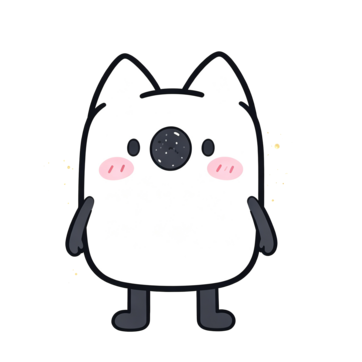
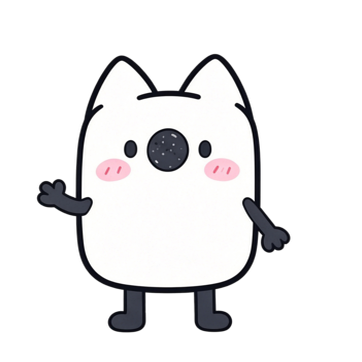
更新整理书架16帧动画

Changed region(s): [[0.0912, 0.1215, 0.8204, 0.942], [0.7597, 0.395, 0.7901, 0.4254]]

diff --git a/demo/pet_demo.html b/demo/pet_demo.html
@@ -405,7 +405,7 @@
         </button>
         <button class="action" id="btn-newbook">
           <span class="label">整理书架/新建书籍</span>
-          <span class="meta">newbook/ · 14帧</span>
+          <span class="meta">newbook/ · 16帧</span>
           <span class="badge ready">已就绪</span>
         </button>
       </div>
@@ -434,7 +434,7 @@
         <tr><td class="key">mastered</td><td>复习考核判定已掌握时</td><td class="frames">16</td><td><span class="badge ready">已就绪</span></td></tr>
         <tr><td class="key">forgotten</td><td>复习考核判定遗忘/模糊时</td><td class="frames">16</td><td><span class="badge ready">已就绪</span></td></tr>
         <tr><td class="key">newnote</td><td>新建笔记时</td><td class="frames">16</td><td><span class="badge ready">已就绪</span></td></tr>
-        <tr><td class="key">newbook</td><td>整理书架 / 新建书籍时</td><td class="frames">14</td><td><span class="badge ready">已就绪</span></td></tr>
+        <tr><td class="key">newbook</td><td>整理书架 / 新建书籍时</td><td class="frames">16</td><td><span class="badge ready">已就绪</span></td></tr>
       </tbody>
     </table>
     </div>
@@ -444,7 +444,7 @@
 </div>
 
 <script>
-  const FRAMES = {"normal": ["../assets/normal/normal_1.png", "../assets/normal/normal_2.png", "../assets/normal/normal_3.png", "../assets/normal/normal_4.png", "../assets/normal/normal_5.png", "../assets/normal/normal_6.png", "../assets/normal/normal_7.png", "../assets/normal/normal_8.png", "../assets/normal/normal_9.png"], "levelup": ["../assets/levelup/levelup_1.png", "../assets/levelup/levelup_2.png", "../assets/levelup/levelup_3.png", "../assets/levelup/levelup_4.png", "../assets/levelup/levelup_5.png", "../assets/levelup/levelup_6.png", "../assets/levelup/levelup_7.png", "../assets/levelup/levelup_8.png", "../assets/levelup/levelup_9.png", "../assets/levelup/levelup_10.png", "../assets/levelup/levelup_11.png", "../assets/levelup/levelup_12.png", "../assets/levelup/levelup_13.png", "../assets/levelup/levelup_14.png", "../assets/levelup/levelup_15.png", "../assets/levelup/levelup_16.png"], "wave": ["../assets/wave/wave_1.png", "../assets/wave/wave_2.png", "../assets/wave/wave_3.png", "../assets/wave/wave_4.png", "../assets/wave/wave_5.png", "../assets/wave/wave_6.png", "../assets/wave/wave_7.png", "../assets/wave/wave_8.png", "../assets/wave/wave_9.png", "../assets/wave/wave_10.png", "../assets/wave/wave_11.png", "../assets/wave/wave_12.png"], "idea": ["../assets/idea/idea_1.png", "../assets/idea/idea_2.png", "../assets/idea/idea_3.png", "../assets/idea/idea_4.png", "../assets/idea/idea_5.png", "../assets/idea/idea_6.png", "../assets/idea/idea_7.png", "../assets/idea/idea_8.png", "../assets/idea/idea_9.png", "../assets/idea/idea_10.png", "../assets/idea/idea_11.png", "../assets/idea/idea_12.png"], "followup": ["../assets/followup/followup_1.png", "../assets/followup/followup_2.png", "../assets/followup/followup_3.png", "../assets/followup/followup_4.png", "../assets/followup/followup_5.png", "../assets/followup/followup_6.png", "../assets/followup/followup_7.png", "../assets/followup/followup_8.png", "../assets/followup/followup_9.png", "../assets/followup/followup_10.png", "../assets/followup/followup_11.png", "../assets/followup/followup_12.png", "../assets/followup/followup_13.png", "../assets/followup/followup_14.png", "../assets/followup/followup_15.png", "../assets/followup/followup_16.png"], "crosslink": ["../assets/crosslink/crosslink_1.png", "../assets/crosslink/crosslink_2.png", "../assets/crosslink/crosslink_3.png", "../assets/crosslink/crosslink_4.png", "../assets/crosslink/crosslink_5.png", "../assets/crosslink/crosslink_6.png", "../assets/crosslink/crosslink_7.png", "../assets/crosslink/crosslink_8.png", "../assets/crosslink/crosslink_9.png", "../assets/crosslink/crosslink_10.png", "../assets/crosslink/crosslink_11.png", "../assets/crosslink/crosslink_12.png", "../assets/crosslink/crosslink_13.png", "../assets/crosslink/crosslink_14.png", "../assets/crosslink/crosslink_15.png", "../assets/crosslink/crosslink_16.png"], "savecard": ["../assets/savecard/savecard_1.png", "../assets/savecard/savecard_2.png", "../assets/savecard/savecard_3.png", "../assets/savecard/savecard_4.png", "../assets/savecard/savecard_5.png", "../assets/savecard/savecard_6.png", "../assets/savecard/savecard_7.png", "../assets/savecard/savecard_8.png", "../assets/savecard/savecard_9.png", "../assets/savecard/savecard_10.png", "../assets/savecard/savecard_11.png", "../assets/savecard/savecard_12.png", "../assets/savecard/savecard_13.png", "../assets/savecard/savecard_14.png", "../assets/savecard/savecard_15.png", "../assets/savecard/savecard_16.png", "../assets/savecard/savecard_17.png", "../assets/savecard/savecard_18.png"], "mastered": ["../assets/mastered/mastered_1.png", "../assets/mastered/mastered_2.png", "../assets/mastered/mastered_3.png", "../assets/mastered/mastered_4.png", "../assets/mastered/mastered_5.png", "../assets/mastered/mastered_6.png", "../assets/mastered/mastered_7.png", "../assets/mastered/mastered_8.png", "../assets/mastered/mastered_9.png", "../assets/mastered/mastered_10.png", "../assets/mastered/mastered_11.png", "../assets/mastered/mastered_12.png", "../assets/mastered/mastered_13.png", "../assets/mastered/mastered_14.png", "../assets/mastered/mastered_15.png", "../assets/mastered/mastered_16.png"], "forgotten": ["../assets/forgotten/forgotten_1.png", "../assets/forgotten/forgotten_2.png", "../assets/forgotten/forgotten_3.png", "../assets/forgotten/forgotten_4.png", "../assets/forgotten/forgotten_5.png", "../assets/forgotten/forgotten_6.png", "../assets/forgotten/forgotten_7.png", "../assets/forgotten/forgotten_8.png", "../assets/forgotten/forgotten_9.png", "../assets/forgotten/forgotten_10.png", "../assets/forgotten/forgotten_11.png", "../assets/forgotten/forgotten_12.png", "../assets/forgotten/forgotten_13.png", "../assets/forgotten/forgotten_14.png", "../assets/forgotten/forgotten_15.png", "../assets/forgotten/forgotten_16.png"], "newnote": ["../assets/newnote/newnote_1.png", "../assets/newnote/newnote_2.png", "../assets/newnote/newnote_3.png", "../assets/newnote/newnote_4.png", "../assets/newnote/newnote_5.png", "../assets/newnote/newnote_6.png", "../assets/newnote/newnote_7.png", "../assets/newnote/newnote_8.png", "../assets/newnote/newnote_9.png", "../assets/newnote/newnote_10.png", "../assets/newnote/newnote_11.png", "../assets/newnote/newnote_12.png", "../assets/newnote/newnote_13.png", "../assets/newnote/newnote_14.png", "../assets/newnote/newnote_15.png", "../assets/newnote/newnote_16.png"], "newbook": ["../assets/newbook/newbook_1.png", "../assets/newbook/newbook_2.png", "../assets/newbook/newbook_3.png", "../assets/newbook/newbook_4.png", "../assets/newbook/newbook_5.png", "../assets/newbook/newbook_6.png", "../assets/newbook/newbook_7.png", "../assets/newbook/newbook_8.png", "../assets/newbook/newbook_9.png", "../assets/newbook/newbook_10.png", "../assets/newbook/newbook_11.png", "../assets/newbook/newbook_12.png", "../assets/newbook/newbook_13.png", "../assets/newbook/newbook_14.png"]};
+  const FRAMES = {"normal": ["../assets/normal/normal_1.png", "../assets/normal/normal_2.png", "../assets/normal/normal_3.png", "../assets/normal/normal_4.png", "../assets/normal/normal_5.png", "../assets/normal/normal_6.png", "../assets/normal/normal_7.png", "../assets/normal/normal_8.png", "../assets/normal/normal_9.png"], "levelup": ["../assets/levelup/levelup_1.png", "../assets/levelup/levelup_2.png", "../assets/levelup/levelup_3.png", "../assets/levelup/levelup_4.png", "../assets/levelup/levelup_5.png", "../assets/levelup/levelup_6.png", "../assets/levelup/levelup_7.png", "../assets/levelup/levelup_8.png", "../assets/levelup/levelup_9.png", "../assets/levelup/levelup_10.png", "../assets/levelup/levelup_11.png", "../assets/levelup/levelup_12.png", "../assets/levelup/levelup_13.png", "../assets/levelup/levelup_14.png", "../assets/levelup/levelup_15.png", "../assets/levelup/levelup_16.png"], "wave": ["../assets/wave/wave_1.png", "../assets/wave/wave_2.png", "../assets/wave/wave_3.png", "../assets/wave/wave_4.png", "../assets/wave/wave_5.png", "../assets/wave/wave_6.png", "../assets/wave/wave_7.png", "../assets/wave/wave_8.png", "../assets/wave/wave_9.png", "../assets/wave/wave_10.png", "../assets/wave/wave_11.png", "../assets/wave/wave_12.png"], "idea": ["../assets/idea/idea_1.png", "../assets/idea/idea_2.png", "../assets/idea/idea_3.png", "../assets/idea/idea_4.png", "../assets/idea/idea_5.png", "../assets/idea/idea_6.png", "../assets/idea/idea_7.png", "../assets/idea/idea_8.png", "../assets/idea/idea_9.png", "../assets/idea/idea_10.png", "../assets/idea/idea_11.png", "../assets/idea/idea_12.png"], "followup": ["../assets/followup/followup_1.png", "../assets/followup/followup_2.png", "../assets/followup/followup_3.png", "../assets/followup/followup_4.png", "../assets/followup/followup_5.png", "../assets/followup/followup_6.png", "../assets/followup/followup_7.png", "../assets/followup/followup_8.png", "../assets/followup/followup_9.png", "../assets/followup/followup_10.png", "../assets/followup/followup_11.png", "../assets/followup/followup_12.png", "../assets/followup/followup_13.png", "../assets/followup/followup_14.png", "../assets/followup/followup_15.png", "../assets/followup/followup_16.png"], "crosslink": ["../assets/crosslink/crosslink_1.png", "../assets/crosslink/crosslink_2.png", "../assets/crosslink/crosslink_3.png", "../assets/crosslink/crosslink_4.png", "../assets/crosslink/crosslink_5.png", "../assets/crosslink/crosslink_6.png", "../assets/crosslink/crosslink_7.png", "../assets/crosslink/crosslink_8.png", "../assets/crosslink/crosslink_9.png", "../assets/crosslink/crosslink_10.png", "../assets/crosslink/crosslink_11.png", "../assets/crosslink/crosslink_12.png", "../assets/crosslink/crosslink_13.png", "../assets/crosslink/crosslink_14.png", "../assets/crosslink/crosslink_15.png", "../assets/crosslink/crosslink_16.png"], "savecard": ["../assets/savecard/savecard_1.png", "../assets/savecard/savecard_2.png", "../assets/savecard/savecard_3.png", "../assets/savecard/savecard_4.png", "../assets/savecard/savecard_5.png", "../assets/savecard/savecard_6.png", "../assets/savecard/savecard_7.png", "../assets/savecard/savecard_8.png", "../assets/savecard/savecard_9.png", "../assets/savecard/savecard_10.png", "../assets/savecard/savecard_11.png", "../assets/savecard/savecard_12.png", "../assets/savecard/savecard_13.png", "../assets/savecard/savecard_14.png", "../assets/savecard/savecard_15.png", "../assets/savecard/savecard_16.png", "../assets/savecard/savecard_17.png", "../assets/savecard/savecard_18.png"], "mastered": ["../assets/mastered/mastered_1.png", "../assets/mastered/mastered_2.png", "../assets/mastered/mastered_3.png", "../assets/mastered/mastered_4.png", "../assets/mastered/mastered_5.png", "../assets/mastered/mastered_6.png", "../assets/mastered/mastered_7.png", "../assets/mastered/mastered_8.png", "../assets/mastered/mastered_9.png", "../assets/mastered/mastered_10.png", "../assets/mastered/mastered_11.png", "../assets/mastered/mastered_12.png", "../assets/mastered/mastered_13.png", "../assets/mastered/mastered_14.png", "../assets/mastered/mastered_15.png", "../assets/mastered/mastered_16.png"], "forgotten": ["../assets/forgotten/forgotten_1.png", "../assets/forgotten/forgotten_2.png", "../assets/forgotten/forgotten_3.png", "../assets/forgotten/forgotten_4.png", "../assets/forgotten/forgotten_5.png", "../assets/forgotten/forgotten_6.png", "../assets/forgotten/forgotten_7.png", "../assets/forgotten/forgotten_8.png", "../assets/forgotten/forgotten_9.png", "../assets/forgotten/forgotten_10.png", "../assets/forgotten/forgotten_11.png", "../assets/forgotten/forgotten_12.png", "../assets/forgotten/forgotten_13.png", "../assets/forgotten/forgotten_14.png", "../assets/forgotten/forgotten_15.png", "../assets/forgotten/forgotten_16.png"], "newnote": ["../assets/newnote/newnote_1.png", "../assets/newnote/newnote_2.png", "../assets/newnote/newnote_3.png", "../assets/newnote/newnote_4.png", "../assets/newnote/newnote_5.png", "../assets/newnote/newnote_6.png", "../assets/newnote/newnote_7.png", "../assets/newnote/newnote_8.png", "../assets/newnote/newnote_9.png", "../assets/newnote/newnote_10.png", "../assets/newnote/newnote_11.png", "../assets/newnote/newnote_12.png", "../assets/newnote/newnote_13.png", "../assets/newnote/newnote_14.png", "../assets/newnote/newnote_15.png", "../assets/newnote/newnote_16.png"], "newbook": ["../assets/newbook/newbook_1.png", "../assets/newbook/newbook_2.png", "../assets/newbook/newbook_3.png", "../assets/newbook/newbook_4.png", "../assets/newbook/newbook_5.png", "../assets/newbook/newbook_6.png", "../assets/newbook/newbook_7.png", "../assets/newbook/newbook_8.png", "../assets/newbook/newbook_9.png", "../assets/newbook/newbook_10.png", "../assets/newbook/newbook_11.png", "../assets/newbook/newbook_12.png", "../assets/newbook/newbook_13.png", "../assets/newbook/newbook_14.png", "../assets/newbook/newbook_15.png", "../assets/newbook/newbook_16.png"]};
 
   const sprite = document.getElementById('sprite');
   const stateName = document.getElementById('stateName');

diff --git a/demo/demo_template.html b/demo/demo_template.html
@@ -405,7 +405,7 @@
         </button>
         <button class="action" id="btn-newbook">
           <span class="label">整理书架/新建书籍</span>
-          <span class="meta">newbook/ · 14帧</span>
+          <span class="meta">newbook/ · 16帧</span>
           <span class="badge ready">已就绪</span>
         </button>
       </div>
@@ -434,7 +434,7 @@
         <tr><td class="key">mastered</td><td>复习考核判定已掌握时</td><td class="frames">16</td><td><span class="badge ready">已就绪</span></td></tr>
         <tr><td class="key">forgotten</td><td>复习考核判定遗忘/模糊时</td><td class="frames">16</td><td><span class="badge ready">已就绪</span></td></tr>
         <tr><td class="key">newnote</td><td>新建笔记时</td><td class="frames">16</td><td><span class="badge ready">已就绪</span></td></tr>
-        <tr><td class="key">newbook</td><td>整理书架 / 新建书籍时</td><td class="frames">14</td><td><span class="badge ready">已就绪</span></td></tr>
+        <tr><td class="key">newbook</td><td>整理书架 / 新建书籍时</td><td class="frames">16</td><td><span class="badge ready">已就绪</span></td></tr>
       </tbody>
     </table>
     </div>

diff --git a/demo/gen_demo.py b/demo/gen_demo.py
@@ -17,7 +17,7 @@ data = {
     "mastered": load_frames("mastered", 16),
     "forgotten": load_frames("forgotten", 16),
     "newnote": load_frames("newnote", 16),
-    "newbook": load_frames("newbook", 14),
+    "newbook": load_frames("newbook", 16),
 }
 
 frames_json = json.dumps(data)
